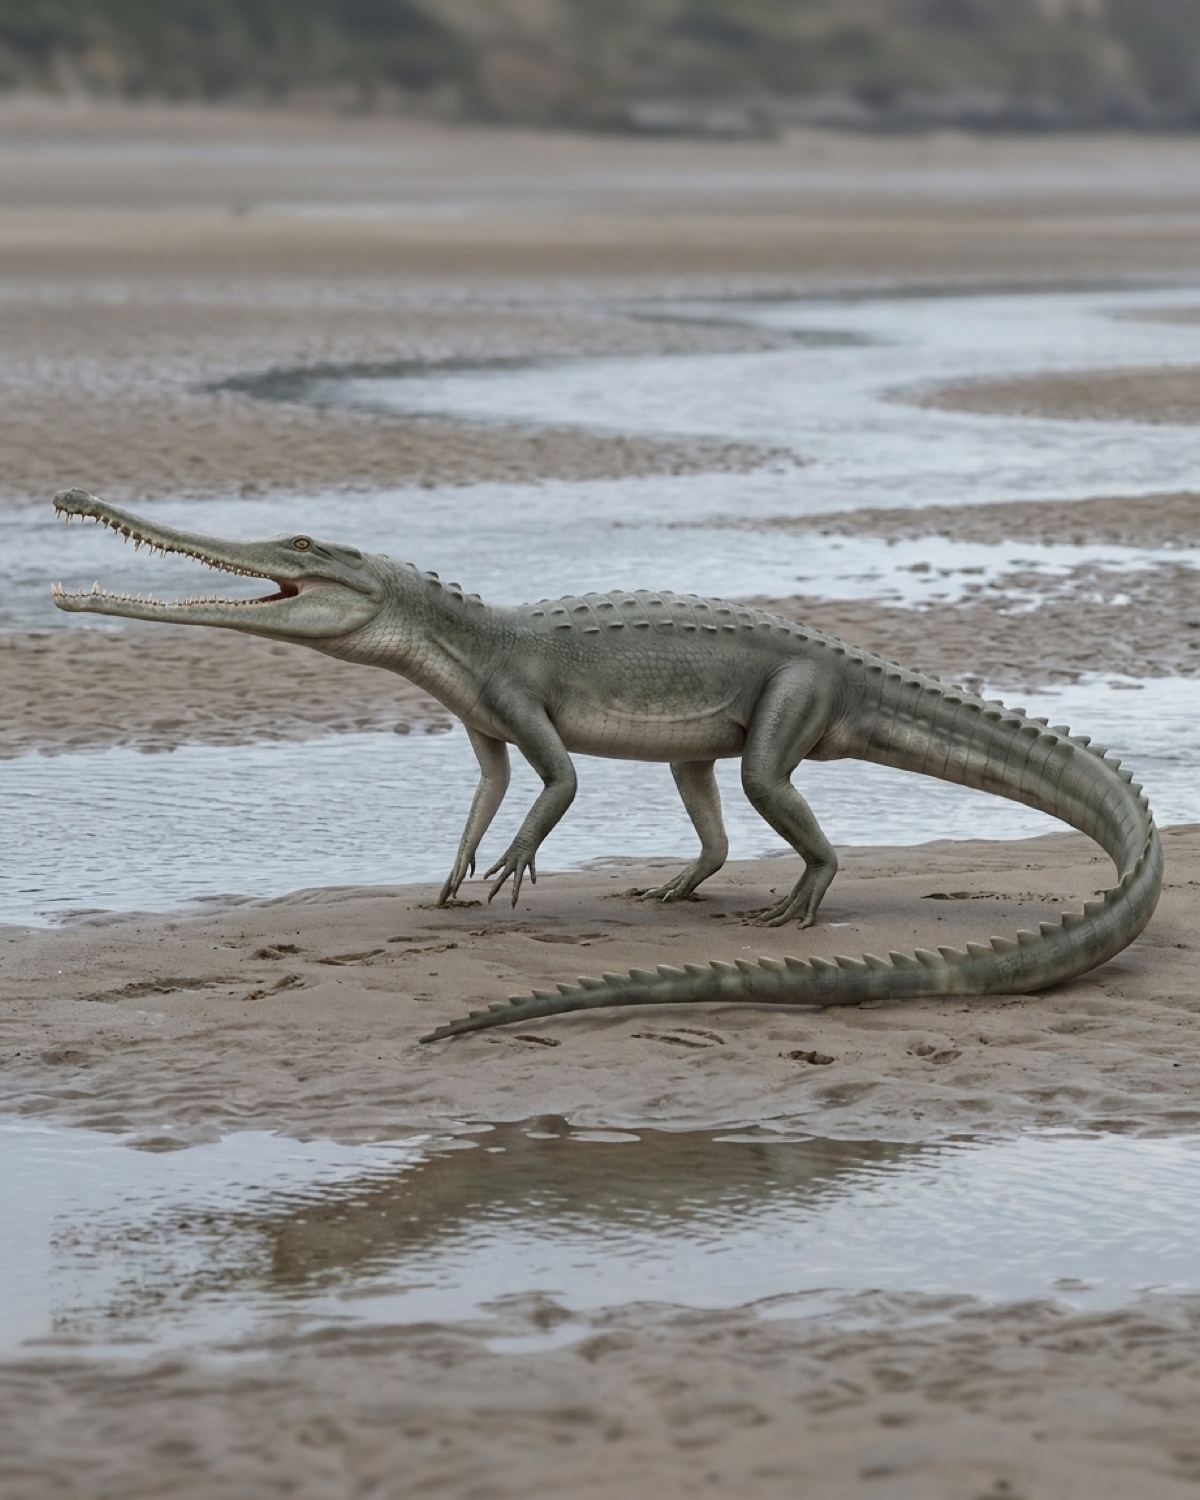
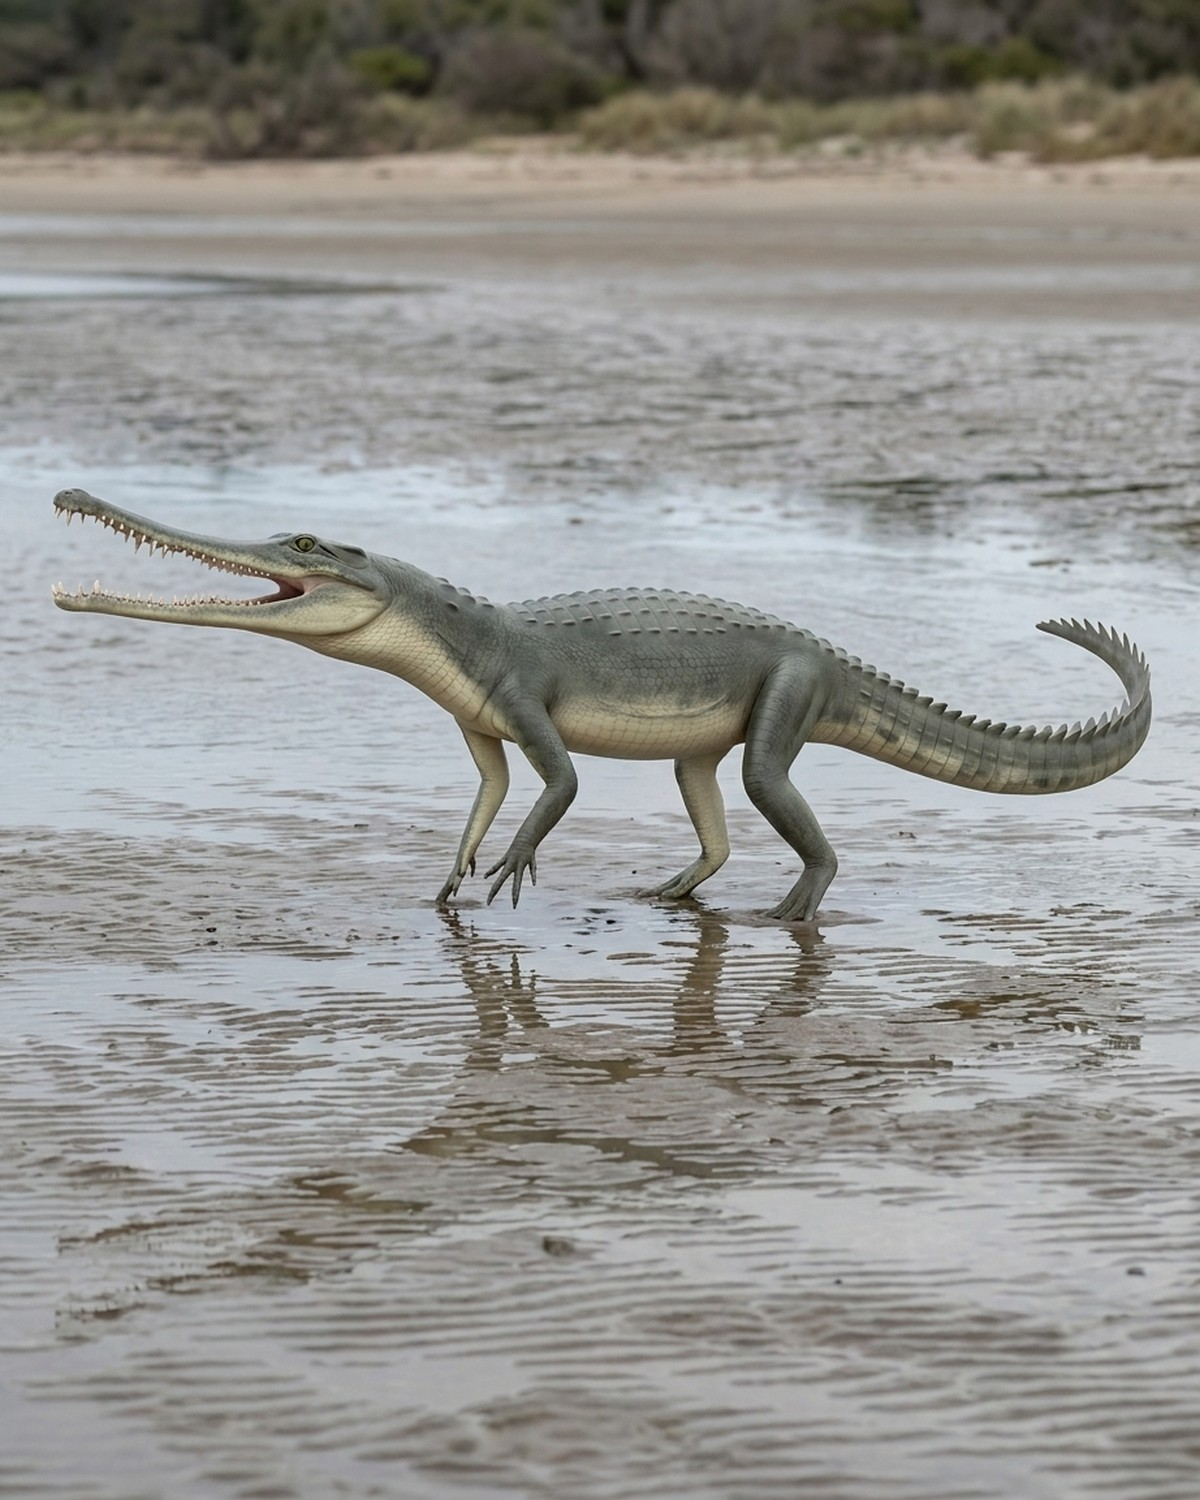
Дирозавру совпадающая реконструкция и интерьер без полос; maison и interiors вернулись к генерациям
Реконструкция пересобрана по канону как по шаблону: та же стойка, морда под
тем же углом, хвост той же длины и с тем же подъёмом кончика. Интерьер: Gemini
отдал кадр 2,36:1, а sips при кропе до 3:2 добивал высоту чёрным — пересъёмка
в честном 3:2 и установка PIL-кропом без паддинга.

Maison и interiors возвращены к сгенерированным интерьерам (анфилада, атриум,
зал) вместо живых фото зала — откат подмены кадров, все позднейшие правки
страниц сохранены; исходные файлы генераций остались в медиатеке.

diff --git a/02_site_v1_gallery/maison.html b/02_site_v1_gallery/maison.html
@@ -52,7 +52,7 @@
 </nav>
 
 <header class="hero" style="min-height:86svh">
-  <div class="hero-media"><img src="../shared/img/hall_perspective.jpg" alt="Зал галереи Relictum"></div>
+  <div class="hero-media"><img src="../shared/img/int_gallery.jpg" alt="Галерея Relictum"></div>
   <div class="hero-content">
     <div class="label reveal">Дом Relictum</div>
     <h1 class="reveal" style="font-size:clamp(42px,5.4vw,84px)">Галерея редких<br>свидетельств <em>времени</em></h1>
@@ -69,7 +69,7 @@
         <p>Всё, что мы предлагаем, существовало до человека — пережило эпохи, вымирания и ледники и сохранилось до наших дней.</p>
         <p>Мы отбираем объекты по силуэту, сохранности и истории находки. Подлинность подтверждает наука, оформление берёт на себя дом Relictum.</p>
       </div>
-      <div class="media reveal"><img src="../shared/img/hall_corner.jpg" alt="Витрина зала: череп носорога, аметист, септария" loading="lazy" decoding="async"></div>
+      <div class="media reveal"><img src="../shared/img/cat_interior_room.jpg" alt="Аммонит в интерьере" loading="lazy" decoding="async"></div>
     </div>
   </div>
 </section>

diff --git a/02_site_v1_gallery/interiors.html b/02_site_v1_gallery/interiors.html
@@ -142,14 +142,14 @@
         </table>
         <a class="link-arrow" href="catalog.html#grand">Монументальная коллекция</a>
       </div>
-      <div class="media wide reveal"><img src="../shared/img/hall_cavebear.jpg" alt="Атриум" loading="lazy" decoding="async"></div>
+      <div class="media wide reveal"><img src="../shared/img/grand_atrium_skeleton.jpg" alt="Атриум" loading="lazy" decoding="async"></div>
     </div>
 
   </div>
 </section>
 
 <section class="concierge" style="padding:0">
-  <img class="bg" src="../shared/img/hall_bear_tusks.jpg" alt="" loading="lazy" decoding="async">
+  <img class="bg" src="../shared/img/cat_interior_room.jpg" alt="" loading="lazy" decoding="async">
   <div class="wrap">
     <div class="inner">
       <div class="label" style="color:var(--bronze)">Интерьеры Relictum</div>
